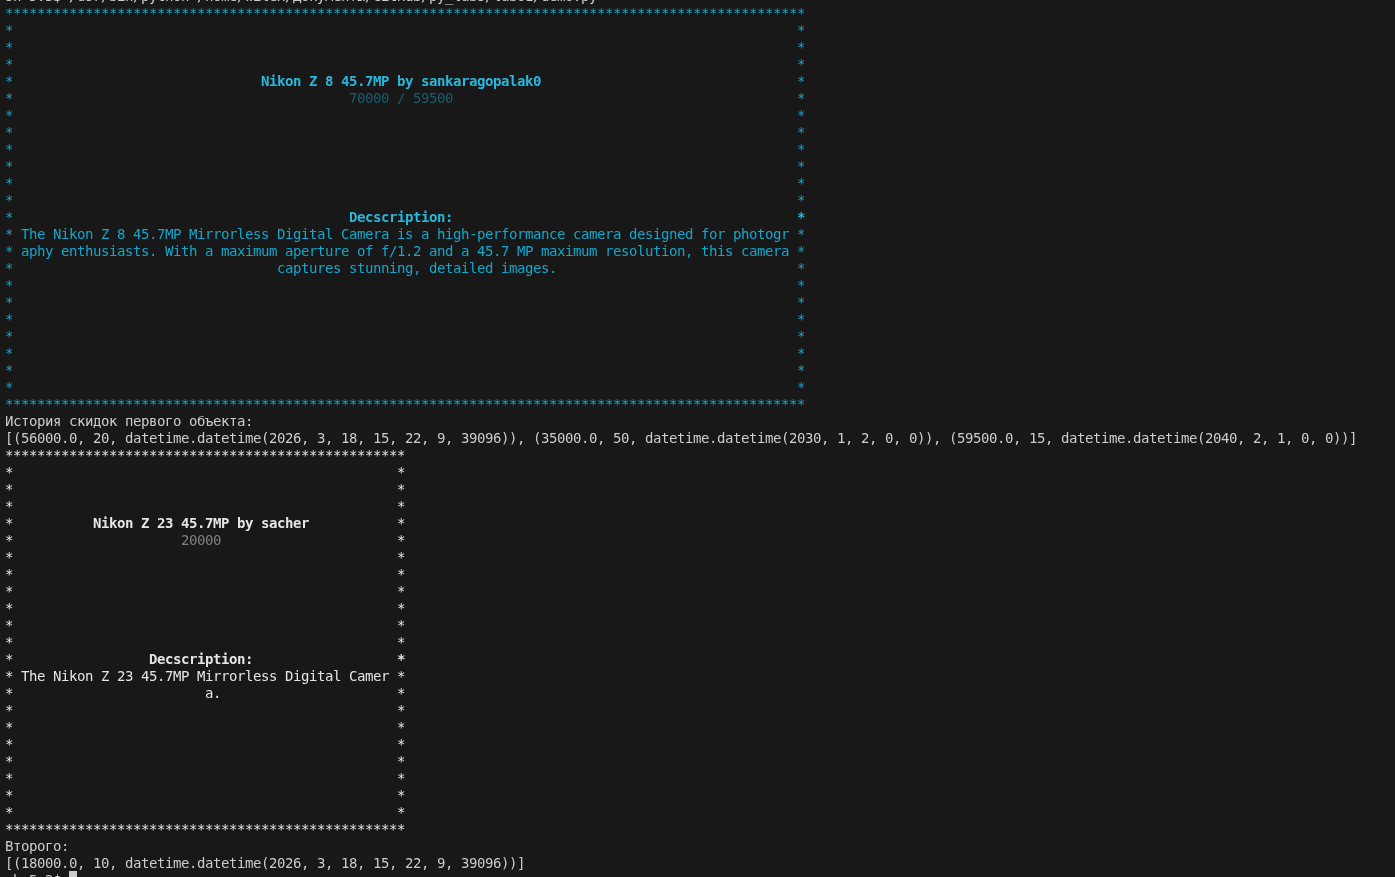
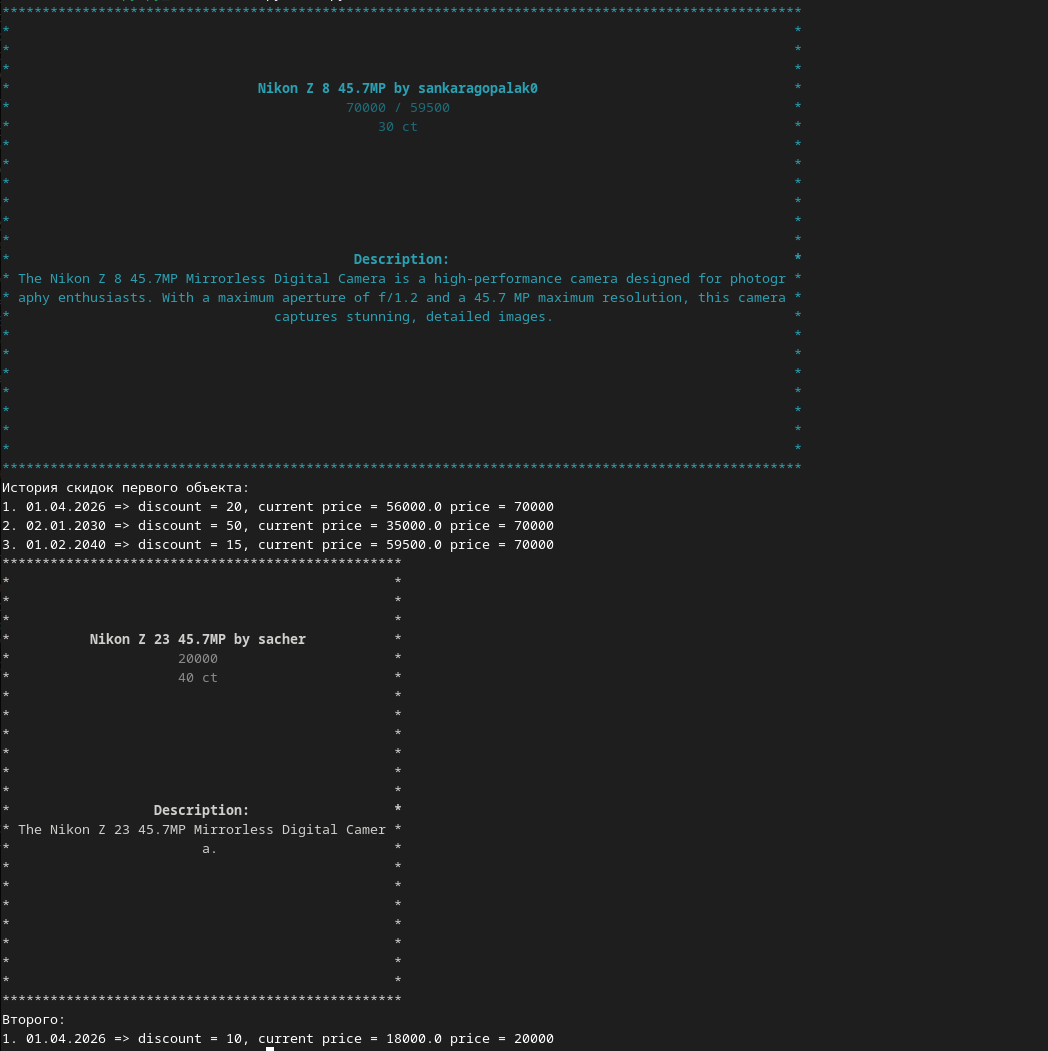
.

diff --git a/lab01/model.py b/lab01/model.py
@@ -25,6 +25,10 @@ class Product:
         self.__size = new_size
     
     @property
+    def quantity(self):
+        return self.__quantity
+
+    @property
     def name(self):
         return self.__name 
     
@@ -49,7 +53,7 @@ class Product:
     @property
     def curr_cost(self):
         if self.discount:
-            return self.__cost * (1 - self.discount / 100)
+            return int(self.__cost * (1 - self.discount / 100))
         return self.__cost
         
     @property
@@ -80,14 +84,17 @@ class Product:
         if self.__top_item != None:
             return self.__top_item
     #constructors
-    def __init__(self, cost:int, name:str, seller:str, description:str, size:Size):
+    def __init__(self, cost:int, name:str, seller:str, quantity:int, description:str, size:Size):
         self.size = size
         self.name = name
         self.description = description
         self.seller = seller
-
+        
         validate_vals(cost)
         self.__cost = cost
+
+        validate_vals(quantity)
+        self.__quantity = quantity
 
         self.__cur_ptr = 0
         self.__histoty = Product.__MAX_N_HISTORY * [None]
@@ -99,14 +106,43 @@ class Product:
     @classmethod
     def load_from_json(cls, json:str):
         res = loads(json)
-        prod = cls(int(res["cost"]), res["name"], res["seller"], res["description"], Size(res["size"]))
+        prod = cls(int(res["cost"]), res["name"], res["seller"], res["quantity"], res["description"], Size(res["size"]))
         prod.__id = res["id"]
         Product.__Id -= 1
         
         if "discount" in res.keys():
-            prod.push_discount(int(res["discount"]), datetime.strptime(res["last_disctount_time"], "%Y-%m-%d"))
+            prod.push_discount(int(res["discount"]), datetime.strptime(res["last_discount_time"], "%Y-%m-%d"))
         return prod
 
+    #quantity methods
+    def append_products(self, quantity:int):
+        validate_vals(quantity)
+        self.__quantity += quantity
+        print(Fore.GREEN + f"successfully added {quantity}. Current quantity is {self.quantity}" + Fore.RESET)
+
+    def buy(self, quantity:int):
+        validate_vals(quantity)
+        if (quantity > self.quantity):
+            raise ValueError("insufficient quantity of product")
+        while (True):
+            ans = None
+            total_price = self.curr_cost * quantity
+            if self.discount:
+                ans = input(f"do you really want to buy {quantity} of the {self.name} by {self.seller} with the total price {total_price} (with {self.discount}% discount) (y/n): ")
+            else:
+                ans = input(f"do you really want to buy {quantity} of the {self.name} by {self.seller} with the total price {total_price} (y/n): ")
+
+            if ans in ['y', 'n']:
+                if ans == 'y':
+                    if quantity > 1:
+                        print(Fore.GREEN + f"you have successfully purchased {quantity} of the {self.name} for {self.curr_cost * quantity}" + Fore.RESET)
+                    else:
+                        print(Fore.GREEN + f"you have successfully purchased a {self.name} for {self.curr_cost}" + Fore.RESET)
+                    self.__quantity -= quantity
+                else:
+                    print(Fore.RED + f"operation cancelled" + Fore.RESET)
+                break
+         
     #private method
     def __prefix_ptr(self, op):
         if not op in ('+', '-'):
@@ -134,20 +170,20 @@ class Product:
         self.__prefix_ptr('-')
         self.__top_item = self.__histoty[self.__cur_ptr - 1]
 
-    def clear_duscount(self):
+    def clear_discount(self):
         for i in range(Product.__MAX_N_HISTORY):
             self.__histoty[i] = None
         self.__cur_ptr = 0
         self.__top_item = None
 
-    #output method
+    #output methods
     def write_data(self, style:Style=Style.NORMAL, color: Fore=Fore.WHITE, width=50, height = 20, fd:int=sys.stdout.fileno()):
         if fd != sys.stdout.fileno():
             res = None
             if self.__histoty[self.__cur_ptr - 1] is None:
-                res = { "name":self.__name, "id": self.__id, "description":self.__desc, "seller": self.__seller, "cost": self.__cost, "size": self.__size.value }
+                res = { "name":self.__name, "id": self.__id, "quantity": self.quantity, "description":self.__desc, "seller": self.__seller, "cost": self.__cost, "size": self.__size.value }
             else:
-                res = { "name":self.__name, "id": self.__id, "description":self.__desc, "seller": self.__seller, "cost": self.__cost, "size": self.__size.value, "discount":self.__top_item[1], "last_disctount_time": str(self.__top_item[2].date()) }
+                res = { "name":self.__name, "id": self.__id, "quantity": self.quantity, "description":self.__desc, "seller": self.__seller, "cost": self.__cost, "size": self.__size.value, "discount":self.__top_item[1], "last_discount_time": str(self.__top_item[2].date()) }
             write(fd, dumps(res).encode())
         else:
             if len(self.name) > width - 2:
@@ -164,9 +200,10 @@ class Product:
                         res += '*' + Style.DIM + (str(self.__cost) + ' / ' + str(round(self.__cost * (1 - self.discount/100)))).center(width - 2)  + Style.NORMAL + '*\n'
                     else:
                         res += '*' + Style.DIM + str(self.__cost).center(width - 2) + Style.NORMAL + '*\n'
+                    res += '*' + Style.DIM + (str(self.quantity) + ' ct').center(width - 2) + Style.NORMAL + '*\n'
 
                 elif (i == pos_desc):
-                    res += '*' + Style.BRIGHT + "Decscription:".center(width-2) + '*\n' + Style.NORMAL; 
+                    res += '*' + Style.BRIGHT + "Description:".center(width-2) + '*\n' + Style.NORMAL; 
 
                     w_cnt = len(self.__desc)
                     if w_cnt > width - 4:
@@ -189,11 +226,18 @@ class Product:
             write(fd, style.encode() + color.encode() + res.encode())
             write(fd, Fore.RESET.encode())
 
+    def print_history(self):
+        if self.history == []:
+            print(Fore.RED + "price history is empty" + Fore.RESET)
+        for i, trp in enumerate(self.history):
+            print(f"{i+1}. {trp[2].strftime("%d.%m.%Y")} => discount = {trp[1]}, current price = {trp[0]} price = {self.cost}")
+
+
     #override methods
     def __eq__(self, value):
-        if (self.__id == value.__id):
-            return True
-        return False
+        if not isinstance(value, Product):
+            return False
+        return self.__id == value.__id
     def __str__(self):
         if self.__top_item:
             return f"Product: {self.__name} by {self.__seller}, cost: {self.__cost}, size: {self.__size}, description: {self.__desc}, discount: {self.__top_item[1]}, discount date: {self.__top_item[2]}"

diff --git a/lab01/demo.py b/lab01/demo.py
@@ -4,21 +4,21 @@ from datetime import datetime
 from colorama import Style, Fore
 
 def demo_objects():
-    p1 = Product(70_000, "Nikon Z 8 45.7MP", "sankaragopalak0", "The Nikon Z 8 45.7MP Mirrorless Digital Camera is a high-performance camera designed for photography enthusiasts. With a maximum aperture of f/1.2 and a 45.7 MP maximum resolution, this camera captures stunning, detailed images.", Size.SMALL)
+    p1 = Product(70_000, "Nikon Z 8 45.7MP", "sankaragopalak0", 30, "The Nikon Z 8 45.7MP Mirrorless Digital Camera is a high-performance camera designed for photography enthusiasts. With a maximum aperture of f/1.2 and a 45.7 MP maximum resolution, this camera captures stunning, detailed images.", Size.SMALL)
     p1.push_discount(20)
     p1.push_discount(50, datetime(2030, 1,2))
     p1.push_discount(15, datetime(2040, 2, 1))
     p1.write_data(color=Fore.CYAN, width= 100)
     print("История скидок первого объекта:")
-    print(p1.history)
-    p2 = Product(20_000, "Nikon Z 23 45.7MP", "sacher", "The Nikon Z 23 45.7MP Mirrorless Digital Camera.", Size.SMALL)
+    p1.print_history()
+    p2 = Product(20_000, "Nikon Z 23 45.7MP", "sacher", 40, "The Nikon Z 23 45.7MP Mirrorless Digital Camera.", Size.SMALL)
     p2.write_data()
     p2.push_discount(10)
     print("Второго:")
-    print(p2.history)
+    p2.print_history()
 
 def demo_json_rdwr():
-    p = Product(70_000, "Nikon Z 8 45.7MP", "sankaragopalak0", "The Nikon Z 8 45.7MP Mirrorless Digital Camera is a high-performance camera designed for photography enthusiasts. With a maximum aperture of f/1.2 and a 45.7 MP maximum resolution, this camera captures stunning, detailed images.", Size.SMALL)
+    p = Product(70_000, "Nikon Z 8 45.7MP", "sankaragopalak0", 20, "The Nikon Z 8 45.7MP Mirrorless Digital Camera is a high-performance camera designed for photography enthusiasts. With a maximum aperture of f/1.2 and a 45.7 MP maximum resolution, this camera captures stunning, detailed images.", Size.SMALL)
     print("Записываемый объект:")
     p.write_data()
     fd = open("data", O_RDWR | O_CREAT | O_TRUNC)
@@ -35,7 +35,7 @@ def demo_json_rdwr():
     remove("data")
 
 def demo_atrr_err():
-    p2 = Product(20_000, "Nikon Z 8 45.7MP", "sankaragopalak0", "The Nikon Z 8 45.7MP Mirrorless Digital Camera is a high-performance camera designed for photography enthusiasts. With a maximum aperture of f/1.2 and a 45.7 MP maximum resolution, this camera captures stunning, detailed images.", Size.SMALL)
+    p2 = Product(20_000, "Nikon Z 8 45.7MP", "sankaragopalak0", 10, "The Nikon Z 8 45.7MP Mirrorless Digital Camera is a high-performance camera designed for photography enthusiasts. With a maximum aperture of f/1.2 and a 45.7 MP maximum resolution, this camera captures stunning, detailed images.", Size.SMALL)
     try:
         print ("Установка скидки в 120%")
         p2.push_discount(120) # скидка в 120%
@@ -67,13 +67,17 @@ def demo_atrr_err():
     except ValueError as e:
         print(f"{e}")
 
-def demo_magic():
-    p = Product(20_000, "Nikon Z 8 45.7MP", "sankaragopalak0", "The Nikon Z 8 45.7MP Mirrorless Digital Camera is a high-performance camera designed for photography enthusiasts. With a maximum aperture of f/1.2 and a 45.7 MP maximum resolution, this camera captures stunning, detailed images.", Size.SMALL)
-    p.push_discount(44)
-    print("метод __str__")
-    print(str(p) + '\n')
-    print("метод __repr__")
-    print(p.__repr__() + '\n')
-    print("метод __eq__")
-    print("Сравнение обънетов выполняется через метод __eq__ и возмонжно только при одинаковых идентификаторах объетов, этот же сценарий возможен только при загрузки объекта из файла в json-форамте как было покано в сценарии 1")
+def demo_quantity():
+     p = Product(20_000, "Nikon Z 8 45.7MP", "sankaragopalak0", 10, "The Nikon Z 8 45.7MP Mirrorless Digital Camera is a high-performance camera designed for photography enthusiasts. With a maximum aperture of f/1.2 and a 45.7 MP maximum resolution, this camera captures stunning, detailed images.", Size.SMALL)
+     p.push_discount(30)
+     p.write_data()
+     p.append_products(20)
+     p.buy(20)
+     print(f"Текущее количество товара {p.quantity}")
+     p.buy(4)
+     print(f"Текущее количество товара {p.quantity}")
 
+demo_objects()
+demo_json_rdwr()
+demo_atrr_err()
+demo_quantity()

diff --git a/lab01/README.md b/lab01/README.md
@@ -53,7 +53,9 @@
 
 ## Бизнес-методы
 ### `write_data(style, color, width, height, fd)` - позволяет стилизованно и удобно вывести всю информацию в поток вывода в виде карточки товара если не указан файловый дескриптор или записать в файл в json-формате
-
+### `append_products(quantity)` - позволяет добавить необходимое количество продукта
+### `buy(quantity)` - позволяет купить необходимое количество продукта
+### `print_history` - позволяет удобно вывести историю скидок на продукт
 ### `push_discount(percent, time)` - добавляет новую скидку
 ### `pop_discount()` - удаляет последнюю добавленнную скидку
 ### `clear_discount()` - удаляет всю историю скидок
@@ -61,11 +63,11 @@
 ## /lab01/demo.py
 ### Сценарий 1 - Создание объекта, добавление скидок в историю скидок и вывод в поток вывода в виде стилизованной таблицы
 ![cc1](../images/lab01/cc1.png)
-### Сценарий 2 - Запись объекта в json-формате и создание объекта класса из файла с помощью альтернативного конструктора
+### Сценарий 2 - Покупка определённого количества продукта, добавление некоторого количества продукта
 ![cc2](../images/lab01/cc2.png)
-### Сценарий 3 - Изменение свойств объекта, обработка возможных ошибок
+### Сценарий 3 - Запись объекта в json-формате и создание объекта класса из файла с помощью альтернативного конструктора
 ![cc3](../images/lab01/cc3.png)
-### Сценарий 4 - Магические методы
+### Сценарий 4 - Изменение свойств объекта, обработка возможных ошибок
 ![cc4](../images/lab01/cc4.png)
 
 
